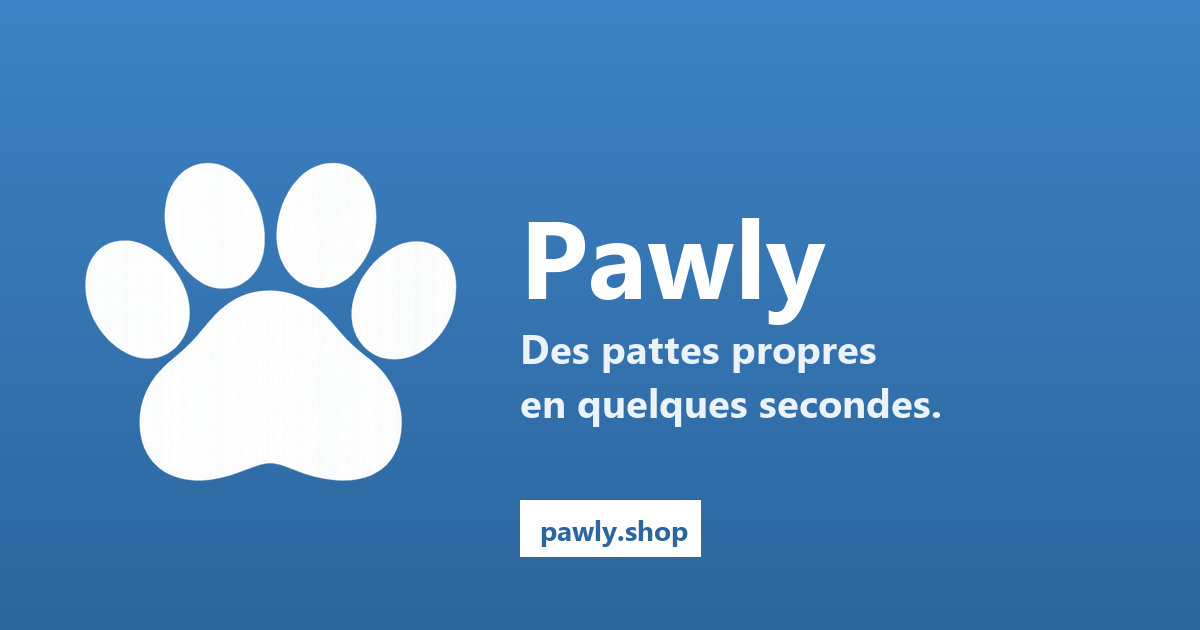
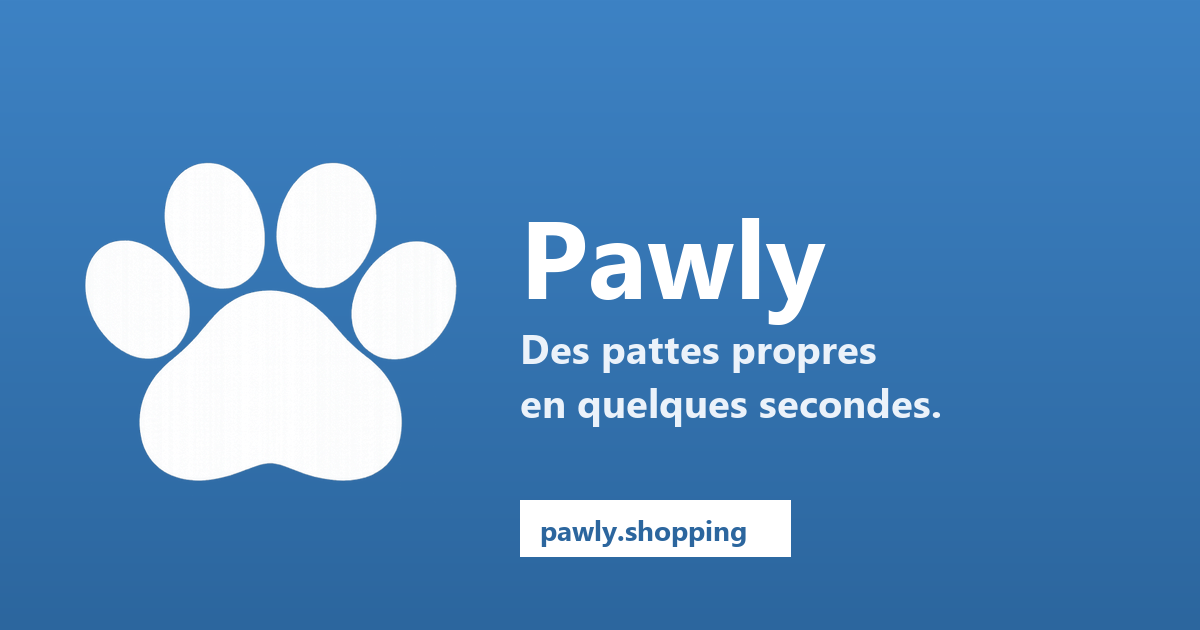
chore: use pawly.shopping as production domain
- storeUrl / contactEmail / emailFrom / dashboardUrl / trackingPageUrl
- robots.txt sitemap URL
- OG image domain badge + regenerate

Changed region(s): [[0.555, 0.7841, 0.6783, 0.9048]]

diff --git a/backend/src/config/store.config.ts b/backend/src/config/store.config.ts
@@ -1,11 +1,11 @@
 export const storeConfig = {
   storeName: process.env.STORE_NAME || 'MON STORE',
-  storeUrl: process.env.STORE_URL || 'https://monstore.shop',
-  contactEmail: process.env.CONTACT_EMAIL || 'contact@monstore.shop',
+  storeUrl: process.env.STORE_URL || 'https://pawly.shopping',
+  contactEmail: process.env.CONTACT_EMAIL || 'contact@pawly.shopping',
   orderPrefix: process.env.ORDER_PREFIX || 'MS',
   emailFrom: process.env.EMAIL_FROM || `${process.env.STORE_NAME || 'MON STORE'} <onboarding@resend.dev>`,
-  adminDashboardUrl: `${process.env.STORE_URL || 'https://monstore.shop'}/admin/orders`,
-  trackingPageUrl: `${process.env.STORE_URL || 'https://monstore.shop'}/suivi`,
+  adminDashboardUrl: `${process.env.STORE_URL || 'https://pawly.shopping'}/admin/orders`,
+  trackingPageUrl: `${process.env.STORE_URL || 'https://pawly.shopping'}/suivi`,
 }
 
 export function formatOrderNumber(orderNumber: number): string {

diff --git a/frontend/config/store.config.ts b/frontend/config/store.config.ts
@@ -113,8 +113,8 @@ export const storeConfig: StoreConfig = {
   // IDENTITY — Change these for your store
   // ═══════════════════════════════════
   storeName: 'PAWLY',
-  storeUrl: 'https://pawly.shop',
-  contactEmail: 'contact@pawly.shop',
+  storeUrl: 'https://pawly.shopping',
+  contactEmail: 'contact@pawly.shopping',
   orderPrefix: 'PW',
 
   // ═══════════════════════════════════

diff --git a/frontend/scripts/generate-og.py b/frontend/scripts/generate-og.py
@@ -59,8 +59,8 @@ draw.text(
     spacing=10,
 )
 
-draw.rectangle([(text_x, 500), (text_x + 180, 556)], fill=WHITE)
-draw.text((text_x + 20, 510), "pawly.shop", fill=PRIMARY_DARK, font=small_font)
+draw.rectangle([(text_x, 500), (text_x + 270, 556)], fill=WHITE)
+draw.text((text_x + 20, 510), "pawly.shopping", fill=PRIMARY_DARK, font=small_font)
 
 img.save(OUT, "PNG", optimize=True)
 print(f"Wrote {OUT}  ({W}x{H})")
